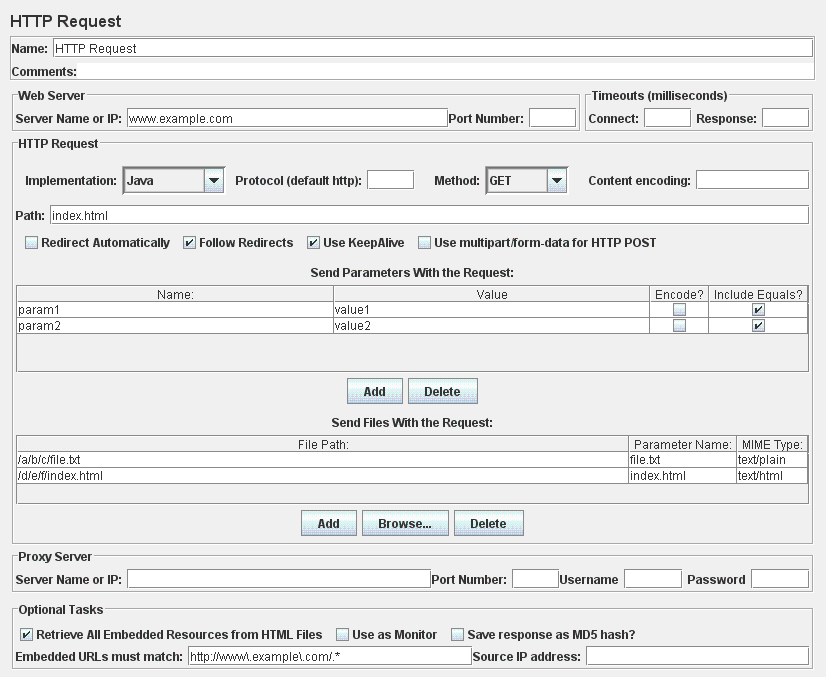
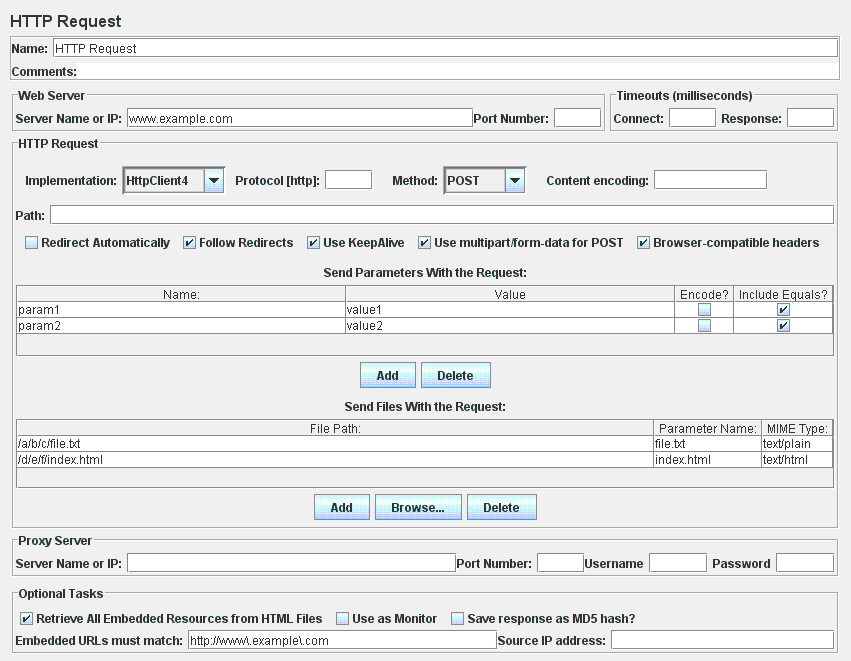
Bug 50684 - Optionally disable Content-Type and Transfer-Encoding in Multipart POST
git-svn-id: https://svn.apache.org/repos/asf/jakarta/jmeter/trunk@1064940 13f79535-47bb-0310-9956-ffa450edef68

Former-commit-id: ef1a639a9e432dcd18c81a6e19984cc65df977b2

Changed region(s): [[0.0, 0.0, 0.9988, 0.5749], [0.0, 0.5446, 0.9988, 0.9985], [0.9685, 0.938, 0.9988, 0.9985]]

diff --git a/src/protocol/http/org/apache/jmeter/protocol/http/config/gui/UrlConfigGui.java b/src/protocol/http/org/apache/jmeter/protocol/http/config/gui/UrlConfigGui.java
@@ -40,7 +40,6 @@ import org.apache.jmeter.protocol.http.gui.HTTPArgumentsPanel;
 import org.apache.jmeter.protocol.http.sampler.HTTPSamplerBase;
 import org.apache.jmeter.protocol.http.sampler.HTTPSamplerFactory;
 import org.apache.jmeter.protocol.http.util.HTTPArgument;
-import org.apache.jmeter.testelement.AbstractTestElement;
 import org.apache.jmeter.testelement.TestElement;
 import org.apache.jmeter.testelement.property.BooleanProperty;
 import org.apache.jmeter.testelement.property.TestElementProperty;
@@ -55,6 +54,7 @@ import org.apache.jorphan.gui.JLabeledChoice;
  * - redirects & keepalive
  */
 public class UrlConfigGui extends JPanel implements ChangeListener {
+
     private static final long serialVersionUID = 240L;
 
     private HTTPArgumentsPanel argsPanel;
@@ -89,6 +89,8 @@ public class UrlConfigGui extends JPanel implements ChangeListener {
 
     private JCheckBox useMultipartForPost;
 
+    private JCheckBox useBrowserCompatibleMultipartMode;
+
     private JLabeledChoice method;
     
     private JLabeledChoice httpImplementation;
@@ -120,6 +122,7 @@ public class UrlConfigGui extends JPanel implements ChangeListener {
             method.setText(HTTPSamplerBase.DEFAULT_METHOD);
             useKeepAlive.setSelected(true);
             useMultipartForPost.setSelected(false);
+            useBrowserCompatibleMultipartMode.setSelected(HTTPSamplerBase.BROWSER_COMPATIBLE_MULTIPART_MODE_DEFAULT);
         }
         if (showImplementation) {
             httpImplementation.setText(""); // $NON-NLS-1$
@@ -174,6 +177,7 @@ public class UrlConfigGui extends JPanel implements ChangeListener {
             element.setProperty(new BooleanProperty(HTTPSamplerBase.AUTO_REDIRECTS, autoRedirects.isSelected()));
             element.setProperty(new BooleanProperty(HTTPSamplerBase.USE_KEEPALIVE, useKeepAlive.isSelected()));
             element.setProperty(new BooleanProperty(HTTPSamplerBase.DO_MULTIPART_POST, useMultipartForPost.isSelected()));
+            element.setProperty(HTTPSamplerBase.BROWSER_COMPATIBLE_MULTIPART, useBrowserCompatibleMultipartMode.isSelected(),HTTPSamplerBase.BROWSER_COMPATIBLE_MULTIPART_MODE_DEFAULT);
         }
         if (showImplementation) {
             element.setProperty(HTTPSamplerBase.IMPLEMENTATION, httpImplementation.getText(),"");
@@ -210,10 +214,12 @@ public class UrlConfigGui extends JPanel implements ChangeListener {
         path.setText(el.getPropertyAsString(HTTPSamplerBase.PATH));
         if (notConfigOnly){
             method.setText(el.getPropertyAsString(HTTPSamplerBase.METHOD));
-            followRedirects.setSelected(((AbstractTestElement) el).getPropertyAsBoolean(HTTPSamplerBase.FOLLOW_REDIRECTS));
-            autoRedirects.setSelected(((AbstractTestElement) el).getPropertyAsBoolean(HTTPSamplerBase.AUTO_REDIRECTS));
-            useKeepAlive.setSelected(((AbstractTestElement) el).getPropertyAsBoolean(HTTPSamplerBase.USE_KEEPALIVE));
-            useMultipartForPost.setSelected(((AbstractTestElement) el).getPropertyAsBoolean(HTTPSamplerBase.DO_MULTIPART_POST));
+            followRedirects.setSelected(el.getPropertyAsBoolean(HTTPSamplerBase.FOLLOW_REDIRECTS));
+            autoRedirects.setSelected(el.getPropertyAsBoolean(HTTPSamplerBase.AUTO_REDIRECTS));
+            useKeepAlive.setSelected(el.getPropertyAsBoolean(HTTPSamplerBase.USE_KEEPALIVE));
+            useMultipartForPost.setSelected(el.getPropertyAsBoolean(HTTPSamplerBase.DO_MULTIPART_POST));
+            useBrowserCompatibleMultipartMode.setSelected(el.getPropertyAsBoolean(
+                    HTTPSamplerBase.BROWSER_COMPATIBLE_MULTIPART, HTTPSamplerBase.BROWSER_COMPATIBLE_MULTIPART_MODE_DEFAULT));
         }
         if (showImplementation) {
             httpImplementation.setText(el.getPropertyAsString(HTTPSamplerBase.IMPLEMENTATION));
@@ -424,6 +430,10 @@ public class UrlConfigGui extends JPanel implements ChangeListener {
 
             useMultipartForPost = new JCheckBox(JMeterUtils.getResString("use_multipart_for_http_post")); // $NON-NLS-1$
             useMultipartForPost.setSelected(false);
+
+            useBrowserCompatibleMultipartMode = new JCheckBox(JMeterUtils.getResString("use_multipart_mode_browser")); // $NON-NLS-1$
+            useBrowserCompatibleMultipartMode.setSelected(HTTPSamplerBase.BROWSER_COMPATIBLE_MULTIPART_MODE_DEFAULT);
+
         }
 
         JPanel pathPanel = new JPanel(new BorderLayout(5, 0));
@@ -439,7 +449,8 @@ public class UrlConfigGui extends JPanel implements ChangeListener {
             optionPanel.add(autoRedirects);
             optionPanel.add(followRedirects);
             optionPanel.add(useKeepAlive);
-             optionPanel.add(useMultipartForPost);
+            optionPanel.add(useMultipartForPost);
+            optionPanel.add(useBrowserCompatibleMultipartMode);
             optionPanel.setMinimumSize(optionPanel.getPreferredSize());
             panel.add(optionPanel);
         }

diff --git a/src/protocol/http/org/apache/jmeter/protocol/http/sampler/HTTPSamplerBase.java b/src/protocol/http/org/apache/jmeter/protocol/http/sampler/HTTPSamplerBase.java
@@ -133,7 +133,16 @@ public abstract class HTTPSamplerBase extends AbstractSampler
      * IP source to use - does not apply to Java HTTP implementation currently
      */
     public static final String IP_SOURCE = "HTTPSampler.ipSource"; // $NON-NLS-1$
+
+    public static final String USE_KEEPALIVE = "HTTPSampler.use_keepalive"; // $NON-NLS-1$
+
+    public static final String DO_MULTIPART_POST = "HTTPSampler.DO_MULTIPART_POST"; // $NON-NLS-1$
+
+    public static final String BROWSER_COMPATIBLE_MULTIPART  = "HTTPSampler.BROWSER_COMPATIBLE_MULTIPART"; // $NON-NLS-1$
+
     //- JMX names
+
+    public static final boolean BROWSER_COMPATIBLE_MULTIPART_MODE_DEFAULT = false; // The default setting to be used (i.e. historic)
     
     
     public static final String DEFAULT_METHOD = GET; // $NON-NLS-1$
@@ -149,11 +158,6 @@ public abstract class HTTPSamplerBase extends AbstractSampler
         };
 
     private static final List<String> METHODLIST = Collections.unmodifiableList(Arrays.asList(METHODS));
-
-
-    public static final String USE_KEEPALIVE = "HTTPSampler.use_keepalive"; // $NON-NLS-1$
-
-    public static final String DO_MULTIPART_POST = "HTTPSampler.DO_MULTIPART_POST"; // $NON-NLS-1$
 
     // @see mergeFileProperties
     // Must be private, as the file list needs special handling
@@ -244,6 +248,7 @@ public abstract class HTTPSamplerBase extends AbstractSampler
     ////////////////////// Variables //////////////////////
 
     private boolean dynamicPath = false;// Set false if spaces are already encoded
+
 
 
     ////////////////////// Code ///////////////////////////
@@ -411,6 +416,14 @@ public abstract class HTTPSamplerBase extends AbstractSampler
 
     public boolean getDoMultipartPost() {
         return getPropertyAsBoolean(DO_MULTIPART_POST, false);
+    }
+
+    public void setDoBrowserCompatibleMultipart(boolean value) {
+        setProperty(BROWSER_COMPATIBLE_MULTIPART, value, BROWSER_COMPATIBLE_MULTIPART_MODE_DEFAULT);
+    }
+
+    public boolean getDoBrowserCompatibleMultipart() {
+        return getPropertyAsBoolean(BROWSER_COMPATIBLE_MULTIPART, BROWSER_COMPATIBLE_MULTIPART_MODE_DEFAULT);
     }
 
     public void setMonitor(String value) {

diff --git a/src/protocol/http/org/apache/jmeter/protocol/http/sampler/PostWriter.java b/src/protocol/http/org/apache/jmeter/protocol/http/sampler/PostWriter.java
@@ -194,7 +194,7 @@ public class PostWriter {
                 // End the previous multipart
                 bos.write(CRLF);
                 // Write multipart for parameter
-                writeFormMultipart(bos, parameterName, arg.getValue(), contentEncoding);
+                writeFormMultipart(bos, parameterName, arg.getValue(), contentEncoding, sampler.getDoBrowserCompatibleMultipart());
             }
             // If there are any files, we need to end the previous multipart
             if(files.length > 0) {
@@ -418,12 +418,14 @@ public class PostWriter {
     /**
      * Writes form data in multipart format.
      */
-    private void writeFormMultipart(OutputStream out, String name, String value, String charSet)
+    private void writeFormMultipart(OutputStream out, String name, String value, String charSet, 
+            boolean browserCompatibleMultipart)
         throws IOException {
         writeln(out, "Content-Disposition: form-data; name=\"" + name + "\""); // $NON-NLS-1$ // $NON-NLS-2$
-        writeln(out, "Content-Type: text/plain; charset=" + charSet); // $NON-NLS-1$
-        writeln(out, "Content-Transfer-Encoding: 8bit"); // $NON-NLS-1$
-
+        if (!browserCompatibleMultipart){
+            writeln(out, "Content-Type: text/plain; charset=" + charSet); // $NON-NLS-1$
+            writeln(out, "Content-Transfer-Encoding: 8bit"); // $NON-NLS-1$
+        }
         out.write(CRLF);
         out.write(value.getBytes(charSet));
         out.write(CRLF);

diff --git a/src/protocol/http/org/apache/jmeter/protocol/http/sampler/HTTPHC3Impl.java b/src/protocol/http/org/apache/jmeter/protocol/http/sampler/HTTPHC3Impl.java
@@ -670,18 +670,24 @@ public class HTTPHC3Impl extends HTTPHCAbstractImpl {
                 contentEncoding = null;
             }
 
+            final boolean browserCompatible = getDoBrowserCompatibleMultipart();
             // We don't know how many entries will be skipped
             ArrayList<PartBase> partlist = new ArrayList<PartBase>();
             // Create the parts
             // Add any parameters
             PropertyIterator args = getArguments().iterator();
             while (args.hasNext()) {
-               HTTPArgument arg = (HTTPArgument) args.next().getObjectValue();
-               String parameterName = arg.getName();
-               if (arg.isSkippable(parameterName)){
-                   continue;
-               }
-               partlist.add(new StringPart(arg.getName(), arg.getValue(), contentEncoding));
+                HTTPArgument arg = (HTTPArgument) args.next().getObjectValue();
+                String parameterName = arg.getName();
+                if (arg.isSkippable(parameterName)){
+                    continue;
+                }
+                StringPart part = new StringPart(arg.getName(), arg.getValue(), contentEncoding);
+                if (browserCompatible) {
+                    part.setTransferEncoding(null);
+                    part.setContentType(null);
+                }
+                partlist.add(part);
             }
 
             // Add any files

diff --git a/src/protocol/http/org/apache/jmeter/protocol/http/sampler/HTTPHC4Impl.java b/src/protocol/http/org/apache/jmeter/protocol/http/sampler/HTTPHC4Impl.java
@@ -62,6 +62,7 @@ import org.apache.http.conn.scheme.SchemeRegistry;
 import org.apache.http.entity.FileEntity;
 import org.apache.http.entity.StringEntity;
 import org.apache.http.entity.mime.FormBodyPart;
+import org.apache.http.entity.mime.HttpMultipartMode;
 import org.apache.http.entity.mime.MultipartEntity;
 import org.apache.http.entity.mime.content.FileBody;
 import org.apache.http.entity.mime.content.StringBody;
@@ -665,7 +666,8 @@ public class HTTPHC4Impl extends HTTPHCAbstractImpl {
             }
 
             // Write the request to our own stream
-            MultipartEntity multiPart = new MultipartEntity();
+            MultipartEntity multiPart = new MultipartEntity(
+                    getDoBrowserCompatibleMultipart() ? HttpMultipartMode.BROWSER_COMPATIBLE : HttpMultipartMode.STRICT);
             // Create the parts
             // Add any parameters
             PropertyIterator args = getArguments().iterator();

diff --git a/src/protocol/http/org/apache/jmeter/protocol/http/sampler/HTTPAbstractImpl.java b/src/protocol/http/org/apache/jmeter/protocol/http/sampler/HTTPAbstractImpl.java
@@ -193,6 +193,13 @@ public abstract class HTTPAbstractImpl implements Interruptible, HTTPConstantsIn
     }
 
     /**
+     * Invokes {@link HTTPSamplerBase#getDoBrowserCompatibleMultipart()}
+     */
+    protected boolean getDoBrowserCompatibleMultipart() {
+        return testElement.getDoBrowserCompatibleMultipart();
+    }
+
+    /**
      * Invokes {@link HTTPSamplerBase#hasArguments()}
      */
     protected boolean hasArguments() {
